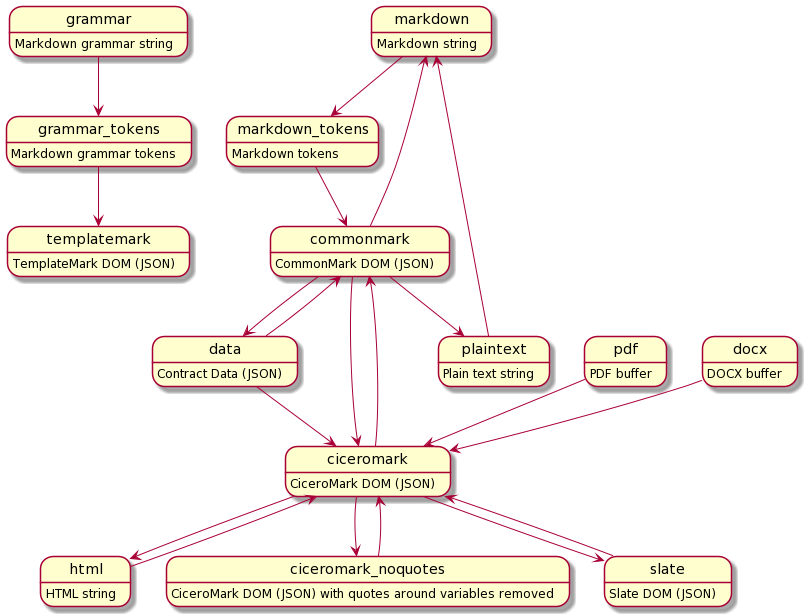
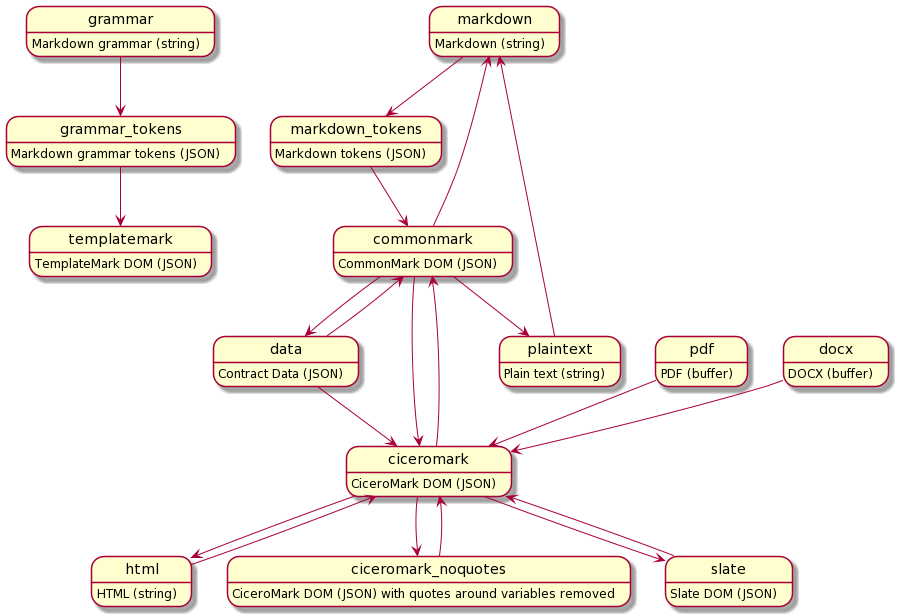
doc(transform) more consistent docs for each format

diff --git a/packages/markdown-transform/lib/transform.js b/packages/markdown-transform/lib/transform.js
@@ -37,7 +37,7 @@ const grammarToTemplateMark = async (input,parameters,options) => {
 };
 const transformationGraph = {
     grammar : {
-        docs: 'Markdown grammar string',
+        docs: 'Markdown grammar (string)',
         fileFormat: 'utf8',
         grammar_tokens: (input,parameters,options) => {
             const t = new TemplateMarkTransformer();
@@ -45,7 +45,7 @@ const transformationGraph = {
         },
     },
     grammar_tokens : {
-        docs: 'Markdown grammar tokens',
+        docs: 'Markdown grammar tokens (JSON)',
         fileFormat: 'json',
         templatemark: async (input,parameters,options) => {
             const t = new TemplateMarkTransformer();
@@ -58,7 +58,7 @@ const transformationGraph = {
         fileFormat: 'json'
     },
     markdown : {
-        docs: 'Markdown string',
+        docs: 'Markdown (string)',
         fileFormat: 'utf8',
         markdown_tokens: (input,parameters,options) => {
             const t = new TemplateMarkTransformer();
@@ -66,7 +66,7 @@ const transformationGraph = {
         },
     },
     markdown_tokens : {
-        docs: 'Markdown tokens',
+        docs: 'Markdown tokens (JSON)',
         fileFormat: 'json',
         commonmark: async (input,parameters,options) => {
             const t = new CommonMarkTransformer(Object.assign(options,{tagInfo: true}));
@@ -119,7 +119,7 @@ const transformationGraph = {
         },
     },
     plaintext: {
-        docs: 'Plain text string',
+        docs: 'Plain text (string)',
         fileFormat: 'utf8',
         markdown: (input,parameters,options) => {
             return input;
@@ -153,7 +153,7 @@ const transformationGraph = {
         }
     },
     pdf: {
-        docs: 'PDF buffer',
+        docs: 'PDF (buffer)',
         fileFormat: 'binary',
         ciceromark: (input,parameters,options) => {
             const pdfTransformer = new PdfTransformer();
@@ -161,7 +161,7 @@ const transformationGraph = {
         },
     },
     docx: {
-        docs: 'DOCX buffer',
+        docs: 'DOCX (buffer)',
         fileFormat: 'binary',
         ciceromark: async (input,parameters,options) => {
             const docxTransformer = new DocxTransformer();
@@ -169,7 +169,7 @@ const transformationGraph = {
         },
     },
     html: {
-        docs: 'HTML string',
+        docs: 'HTML (string)',
         fileFormat: 'utf8',
         ciceromark: (input,parameters,options) => {
             const t = new HtmlTransformer();
